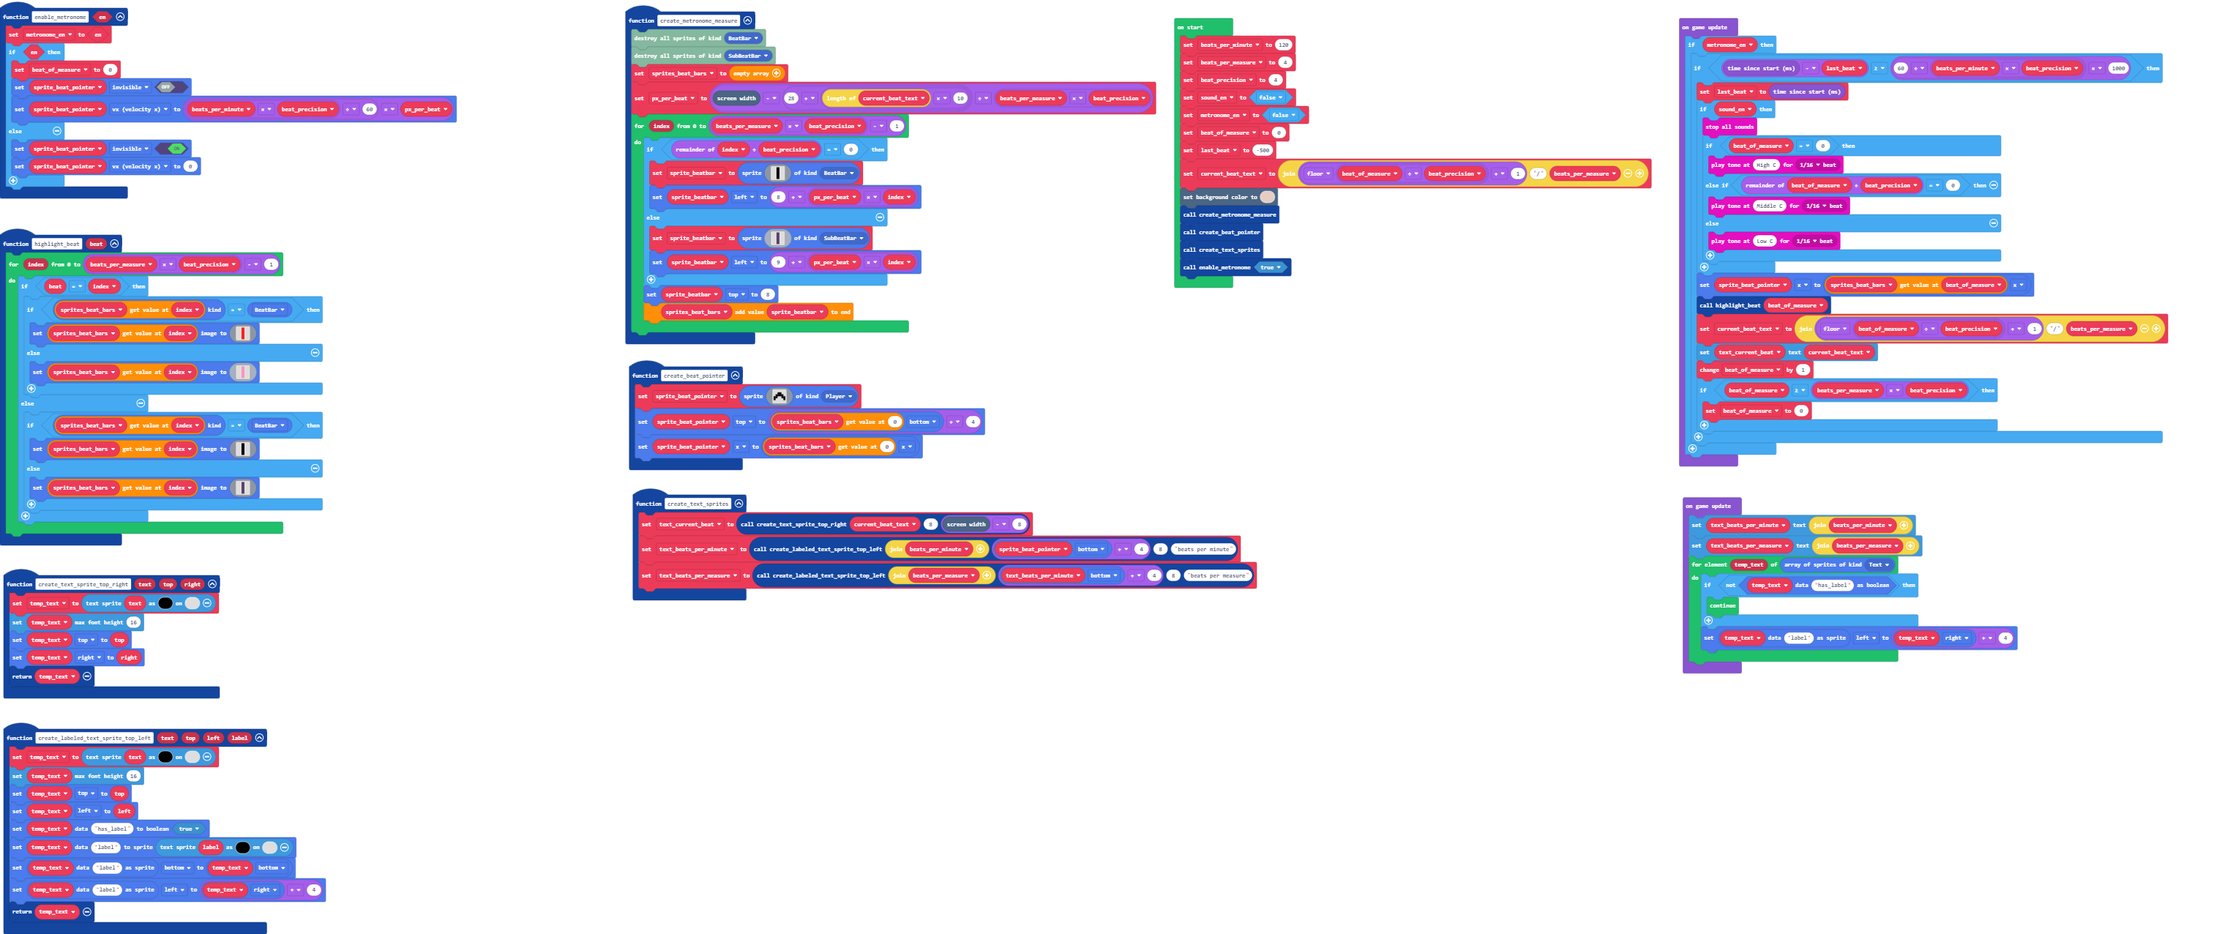
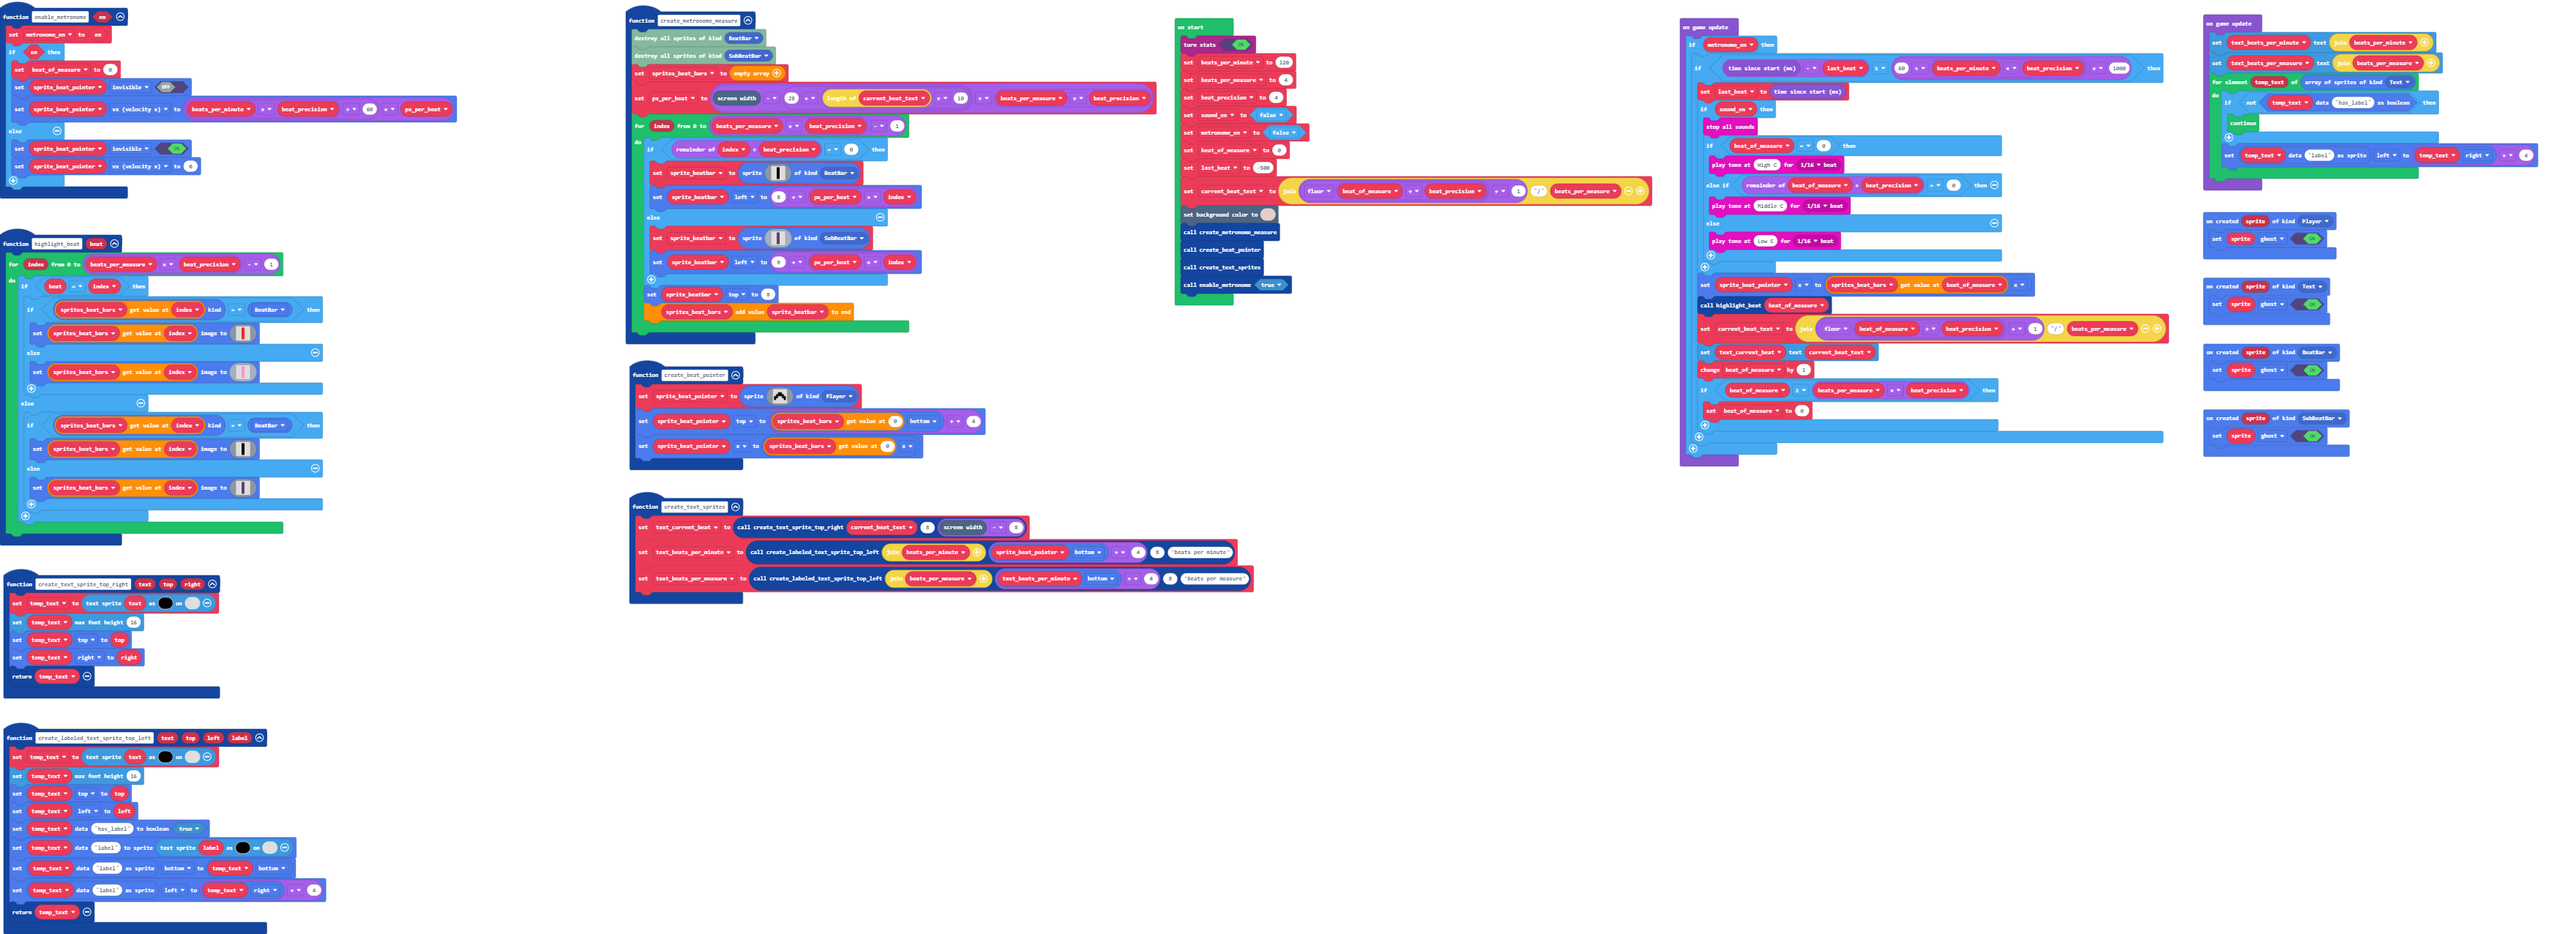
Add stats and make all sprites ghost

diff --git a/main.ts b/main.ts
@@ -2,6 +2,9 @@ namespace SpriteKind {
     export const BeatBar = SpriteKind.create()
     export const SubBeatBar = SpriteKind.create()
 }
+sprites.onCreated(SpriteKind.SubBeatBar, function (sprite) {
+    sprite.setFlag(SpriteFlag.Ghost, true)
+})
 function enable_metronome (en: boolean) {
     metronome_en = en
     if (en) {
@@ -42,6 +45,12 @@ function create_metronome_measure () {
         sprites_beat_bars.push(sprite_beatbar)
     }
 }
+sprites.onCreated(SpriteKind.Text, function (sprite) {
+    sprite.setFlag(SpriteFlag.Ghost, true)
+})
+sprites.onCreated(SpriteKind.BeatBar, function (sprite) {
+    sprite.setFlag(SpriteFlag.Ghost, true)
+})
 function create_text_sprites () {
     text_current_beat = create_text_sprite_top_right(current_beat_text, 8, scene.screenWidth() - 8)
     text_beats_per_minute = create_labeled_text_sprite_top_left("" + beats_per_minute, sprite_beat_pointer.bottom + 4, 8, "beats per minute")
@@ -58,6 +67,9 @@ function create_labeled_text_sprite_top_left (text: string, top: number, left: n
     sprites.readDataSprite(temp_text, "label").left = temp_text.right + 4
     return temp_text
 }
+sprites.onCreated(SpriteKind.Player, function (sprite) {
+    sprite.setFlag(SpriteFlag.Ghost, true)
+})
 function highlight_beat (beat: number) {
     for (let index = 0; index <= beats_per_measure * beat_precision - 1; index++) {
         if (beat == index) {
@@ -89,6 +101,7 @@ let metronome_en = false
 let beat_precision = 0
 let beats_per_measure = 0
 let beats_per_minute = 0
+stats.turnStats(true)
 beats_per_minute = 120
 beats_per_measure = 4
 beat_precision = 4
